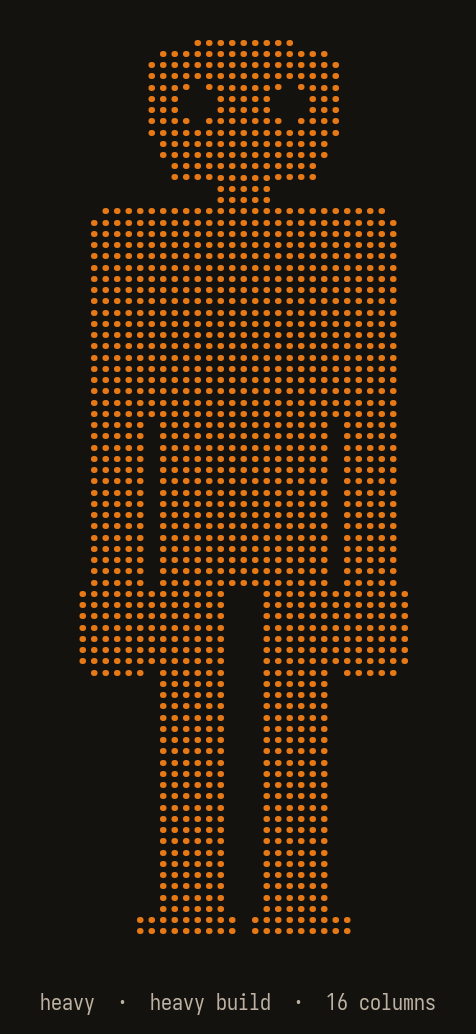
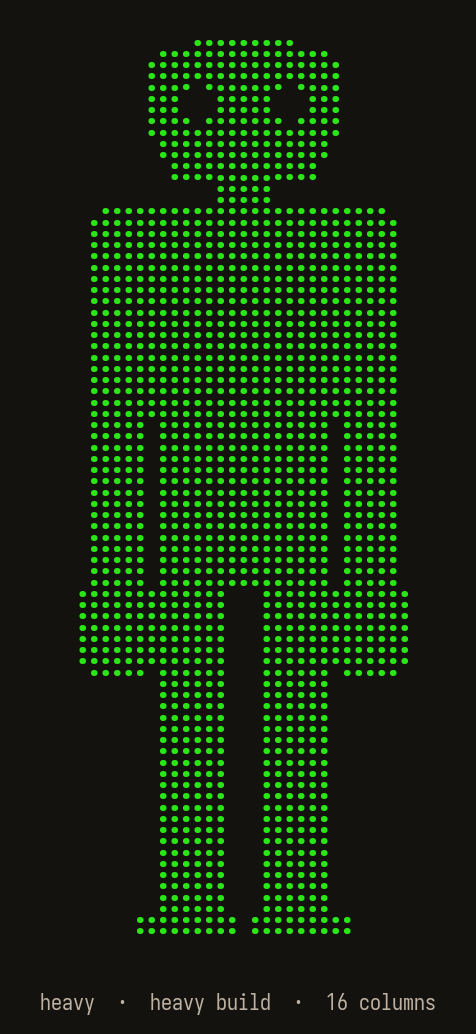
brand: green is the mark again, sampled from the mascot
The director reversed the 2026-08-11 amber decision, so the mark now
carries the same phosphor green as the site: #3afb26, taken from
assets/mascot.png rather than picked by eye.

Every amber pixel was rotated to the green hue in HSV with saturation
and value untouched, so the dot-mesh texture, dither and glow survive —
a flat fill would have produced a silhouette and lost the thing the
mark is made of.

The second pass is the one worth remembering. The flat marks needed a
narrow rule with floors to protect a near-black ground that shares the
amber hue band. The logos and favicons carry a bloom running from deep
red through magenta, which the narrow rule left behind: a green figure
standing in a brown halo. It was obvious on sight and invisible to any
census of the ink, so the rule was widened for those files only.

favicon.ico is regenerated from the repainted source and the
webmanifest's colours follow the theme. icon.png was already green and
is untouched.

Also: the README now says a clone carries ~92 MB of committed fuzzing
corpora and why that is worth it, rather than letting a stranger
discover it mid-clone.

Changed region(s): [[0.1471, 0.0309, 0.8529, 0.9284]]

diff --git a/docs/internal/notes/branding.md b/docs/internal/notes/branding.md
@@ -75,32 +75,49 @@ plus light/medium/semibold and their italics).
   §6); derive it from `assets/logo-512.png` rather than the 4096px
   original.
 
-## Partly revived: green returns as a theme (2026-08-30)
+## Reversed: green is the brand again (2026-08-30)
 
-The director asked that the project site's colours resemble
-`assets/mascot.png` — the green of the superseded direction below —
-rather than the amber. That is a reversal of the 2026-08-11 decision
-this note records, and it is recorded here rather than applied
-silently, because this file is the authority for the brand.
+The director reversed the 2026-08-11 amber decision. **Green is the
+brand**: the site, the mark, the favicons and the wordmark all carry the
+phosphor green of `assets/mascot.png`, which is where the project
+started before amber replaced it. The section below, and the amber
+passages above it, are kept because the reasoning that chose the *form*
+of the mark still holds — only the hue moved.
 
-What was done, and what deliberately was not:
+**The colour.** `#3afb26`, sampled from the mascot rather than picked by
+eye. It is the theme's `--fg` (`cathode`), the `theme_color` in
+`site.webmanifest`, and the ink in every mark.
 
-- **Done:** a bundled theme, `cathode`, carrying the green sampled from
-  the mascot itself (`#3afb26` on `#050a04`, contrast measured), and the
-  project's own deployment set to use it. A theme is configuration; any
-  operator can pick another, and the change is one line to undo.
-- **Not done:** the mark, favicons and the 16-colour PNGs are still
-  Ember Oxide amber, and the mark is what a reader sees in a browser
-  tab and on the Fediverse. **The assets and the site now disagree.**
-  Repainting them is a brand decision, not a theme decision, and it
-  would mean amending everything above rather than appending here.
+**How the repaint was done, and why not by hand.** Every amber pixel was
+rotated to the green hue in HSV with its saturation and value left
+untouched, so the artwork's shading, dither and glow survive. A flat
+fill would have produced a green silhouette and lost the dot-mesh
+texture that is the whole point of the mark.
 
-**Open for the director:** either repaint the mark green and rewrite
-this note's authority section, or keep the amber mark and accept a
-green site around it. The launch image in
-[`../launch/fediverse.md`](../launch/fediverse.md) is `mascot.png`,
-which is green, so the announcement currently leads with the green and
-links to a green site under an amber tab icon.
+Two passes were needed, and the second is the one worth remembering:
+
+- The marks (`mark-*.png`) are flat two-tone, and a narrow rule was
+  enough: hue 10-70 degrees, with saturation and value floors to protect
+  the near-black ground, which shares the amber hue band and would
+  otherwise have gone green as well.
+- The logos and favicons carry a **bloom** — the figure's own light,
+  dim and spread out, running from deep red through magenta. The first
+  pass converted the ink and left the bloom, producing a green figure
+  standing in a brown halo. It looked wrong immediately and only because
+  it was looked at; no census of the ink would have shown it. The rule
+  was widened to the whole warm arc for those files.
+
+`favicon.ico` is generated from the repainted 512px source, and
+`site.webmanifest`'s `theme_color` and `background_color` follow the
+theme (`#3afb26` on `#050a04`).
+
+**Left alone, deliberately:** `icon.png`, the Cloudron app icon, was
+already green (hue ~128 degrees) — different artwork from a different
+pass, and it needs nothing. `scene-*.jpg` are illustrative scenes, not
+marks.
+
+**The assets and the site now agree**, which they did not for the few
+hours between the theme landing and this repaint.
 
 ## Superseded: the phosphor-green direction (2026-08-09)
 

diff --git a/README.md b/README.md
@@ -240,8 +240,16 @@ editing over Titan: [`docs/titan.md`](docs/titan.md). Common questions:
 
 ## Project
 
-Written in Rust: about 11,000 lines of code across 40 files, with 632 tests
-and a fuzz target for every parser. Not independently audited, and pre-1.0,
+Written in Rust: about 11,000 lines of code across 40 files, with 647 tests
+and a fuzz target for every parser.
+
+**A clone is larger than the code**, because the fuzzing corpora are
+committed: about 92 MB, two thirds of it the configuration parser's.
+That is deliberate. A corpus is the accumulated evidence of every input
+class a parser has already survived, and a regression suite that lives
+only on the machine that generated it is not a regression suite. If you
+only want to read or build the code, `git clone --depth 1` skips the
+history and `--filter=blob:none` fetches file contents on demand. Not independently audited, and pre-1.0,
 Agate and gmid have years of production hardening it does not.
 
 **AI Forward.** `usv` is written end to end by an AI, directed and reviewed
